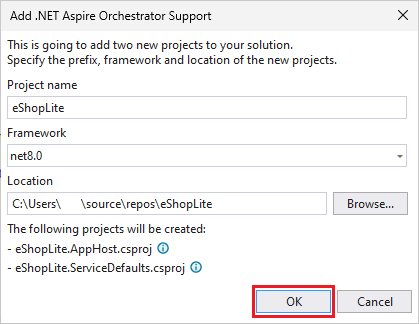
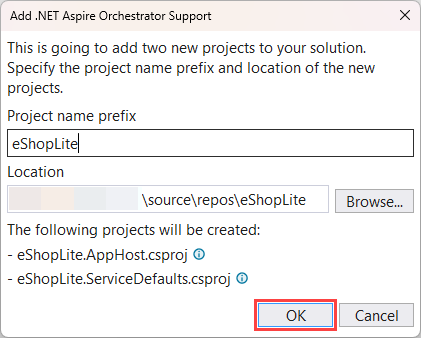
Fix issue #721

Changed region(s): [[0.0, 0.0, 1.0, 1.0], [0.0, 0.1235, 0.8998, 0.216], [0.0, 0.0309, 0.5274, 0.0617]]

diff --git a/docs/get-started/add-aspire-existing-app.md b/docs/get-started/add-aspire-existing-app.md
@@ -1,7 +1,7 @@
 ---
 title: Add .NET Aspire to an existing .NET 8 microservices app
 description: Learn how to add .NET Aspire components, orchestration, and tooling to a microservices app that already exists.
-ms.date: 11/15/2023
+ms.date: 05/17/2024
 ms.topic: how-to
 ---
 
@@ -42,7 +42,7 @@ Open and start debugging the project to examine its default behavior:
 1. Start Visual Studio and then select **File** > **Open** > **Project/Solution**.
 1. Navigate to the top level folder of the solution you cloned, select **eShopLite.sln**, and then select **Open**.
 1. In the **Solution Explorer**, right-click the **eShopLite** solution, and then select **Configure Startup Projects**.
-1. Select **Multiple startup projects** and then select the **Create new launch profile** button.
+1. Select **Multiple startup projects**.
 1. In the **Action** column, select **Start** for both the **Products** and **Store** projects.
 1. Select **OK**.
 1. To start debugging the solution, press <kbd>F5</kbd> or select **Start**.
@@ -78,8 +78,9 @@ For more information, see <xref:Aspire.Hosting.ProjectResourceBuilderExtensions.
 To add the **Products** project to .NET Aspire:
 
 1. In Visual Studio, in the **Solution Explorer**, right-click the **Products** project, select **Add**, and then select **.NET Aspire Orchestrator Support**.
-1. In the **Microsoft Visual Studio** dialog, select **OK**.
-1. In the **Add .NET Aspire Orchestrator Support** dialog, select **OK**.
+1. A dialog indicating that .NET Aspire Orchestrator project already exists, select **OK**.
+
+    :::image type="content" source="media/orchestrator-already-added.png" alt-text="Screenshot indicating that the.NET Aspire Orchestrator was already added.":::
 
 In the **eShopLite.AppHost** project, open the **Program.cs** file. Notice this line of code, which registers the **Products** project in the .NET Aspire orchestration:
 
